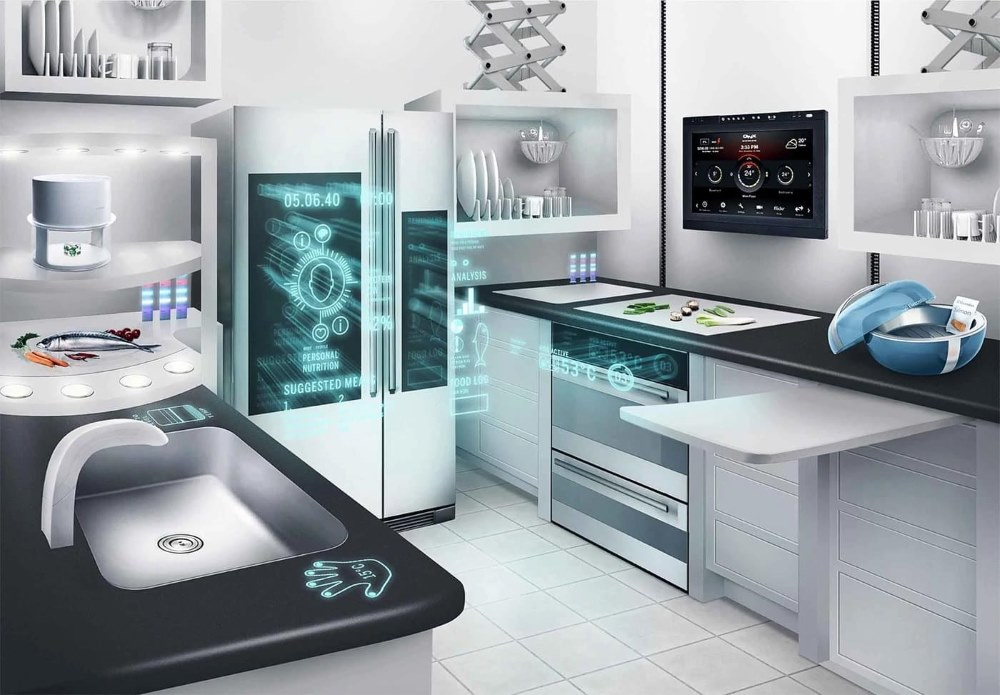
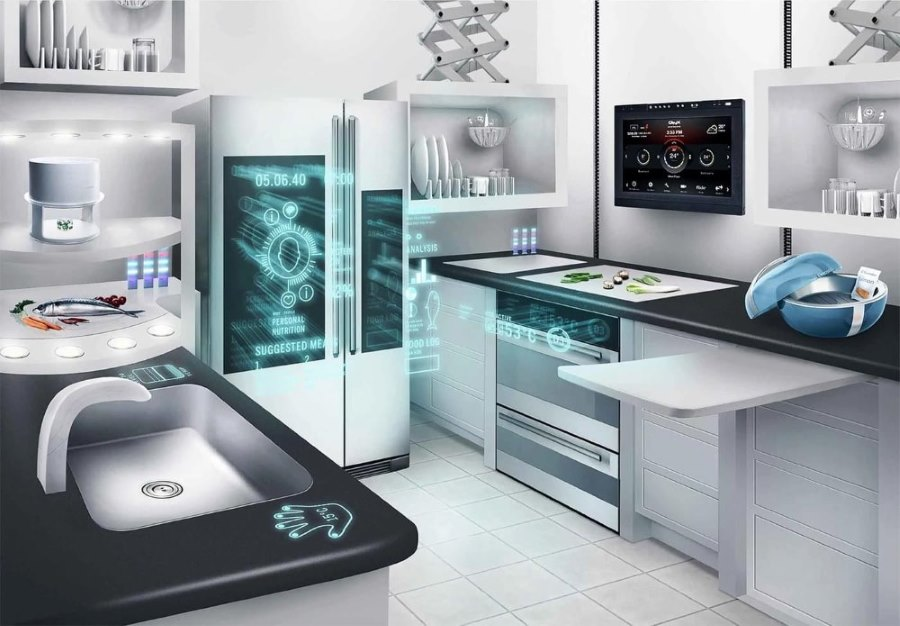
update speed

diff --git a/src/app/components/navbar.tsx b/src/app/components/navbar.tsx
@@ -19,7 +19,7 @@ function Navbar() {
 
     return (
         <section className='w-full z-50  fixed'>
-            <div className='flex justify-between  items-center max-w-7xl  bg-[#0C0C0C]/65 backdrop-blur-md mx-auto h-16 px-10'>
+            <div className='flex justify-between items-center max-w-7xl  bg-[#0C0C0C]/65 backdrop-blur-md mx-auto h-16 px-10'>
                 <div>
                     <Link href='/'>
                         <Image src={logoComp} width={50} alt='alpha logo' />
@@ -36,7 +36,7 @@ function Navbar() {
                 </div>
                 <div className='flex gap-6 items-center'>
                     <Link href={'/services#produk2'} className='hidden lg:flex'>
-                        <button className='bg-transparent border border-blue-600 px-3 py-2 text-[12px] text-white lg:text-sm  rounded-full font-bold flex items-center gap-1 hover:shadow-[0_1px_10px_blue] hover:opacity-80 transition-all duration-200'> <svg xmlns="http://www.w3.org/2000/svg" viewBox="0 0 24 24" width="18px" fill="currentColor"><path d="M6.00488 9H19.9433L20.4433 7H8.00488V5H21.7241C22.2764 5 22.7241 5.44772 22.7241 6C22.7241 6.08176 22.7141 6.16322 22.6942 6.24254L20.1942 16.2425C20.083 16.6877 19.683 17 19.2241 17H5.00488C4.4526 17 4.00488 16.5523 4.00488 16V4H2.00488V2H5.00488C5.55717 2 6.00488 2.44772 6.00488 3V9ZM6.00488 23C4.90031 23 4.00488 22.1046 4.00488 21C4.00488 19.8954 4.90031 19 6.00488 19C7.10945 19 8.00488 19.8954 8.00488 21C8.00488 22.1046 7.10945 23 6.00488 23ZM18.0049 23C16.9003 23 16.0049 22.1046 16.0049 21C16.0049 19.8954 16.9003 19 18.0049 19C19.1095 19 20.0049 19.8954 20.0049 21C20.0049 22.1046 19.1095 23 18.0049 23Z"></path></svg>SHOP</button>
+                        <button type='button' className='bg-transparent border border-blue-600 px-3 py-2 text-[12px] text-white lg:text-sm  rounded-full font-bold flex items-center gap-1 hover:shadow-[0_1px_10px_blue] hover:opacity-80 transition-all duration-200'> <svg xmlns="http://www.w3.org/2000/svg" viewBox="0 0 24 24" width="18px" fill="currentColor"><path d="M6.00488 9H19.9433L20.4433 7H8.00488V5H21.7241C22.2764 5 22.7241 5.44772 22.7241 6C22.7241 6.08176 22.7141 6.16322 22.6942 6.24254L20.1942 16.2425C20.083 16.6877 19.683 17 19.2241 17H5.00488C4.4526 17 4.00488 16.5523 4.00488 16V4H2.00488V2H5.00488C5.55717 2 6.00488 2.44772 6.00488 3V9ZM6.00488 23C4.90031 23 4.00488 22.1046 4.00488 21C4.00488 19.8954 4.90031 19 6.00488 19C7.10945 19 8.00488 19.8954 8.00488 21C8.00488 22.1046 7.10945 23 6.00488 23ZM18.0049 23C16.9003 23 16.0049 22.1046 16.0049 21C16.0049 19.8954 16.9003 19 18.0049 19C19.1095 19 20.0049 19.8954 20.0049 21C20.0049 22.1046 19.1095 23 18.0049 23Z"></path></svg>SHOP</button>
                     </Link>
                     <p onClick={() => setMenu(!false)} className='lg:hidden cursor-pointer text-white'>
                         <svg xmlns="http://www.w3.org/2000/svg" width='27px' viewBox="0 0 24 24" fill="currentColor"><path d="M3 4H21V6H3V4ZM3 11H21V13H3V11ZM3 18H21V20H3V18Z"></path></svg>
@@ -49,10 +49,9 @@ function Navbar() {
             <div className={clsx('fixed h-full w-screen lg:hidden bg-black/50 backdrop-blur-sm top-0 bottom-0 -translate-x-full', menu && "translate-x-0 transition-all duration-300"
             )}>
                 <section className='text-white bg-[#0C0C0C] flex flex-col absolute right-0 top-0 h-screen p-8 gap-8 z-50 w-48'>
-                    <button
-                        type='button'
+                    <p
                         onClick={() => setMenu(false)}
-                        className='mt-0 mb-8 cursor-pointer'><svg xmlns="http://www.w3.org/2000/svg" viewBox="0 0 24 24" width={40} fill="currentColor"><path d="M11.9997 10.5865L16.9495 5.63672L18.3637 7.05093L13.4139 12.0007L18.3637 16.9504L16.9495 18.3646L11.9997 13.4149L7.04996 18.3646L5.63574 16.9504L10.5855 12.0007L5.63574 7.05093L7.04996 5.63672L11.9997 10.5865Z"></path></svg></button>
+                        className='mt-0 mb-8 cursor-pointer'><svg xmlns="http://www.w3.org/2000/svg" viewBox="0 0 24 24" width={40} fill="currentColor"><path d="M11.9997 10.5865L16.9495 5.63672L18.3637 7.05093L13.4139 12.0007L18.3637 16.9504L16.9495 18.3646L11.9997 13.4149L7.04996 18.3646L5.63574 16.9504L10.5855 12.0007L5.63574 7.05093L7.04996 5.63672L11.9997 10.5865Z"></path></svg></p>
 
                     {itemNav.map((item, idx) => (
                         <Link onClick={() => setMenu(false)} className='cursor-pointer ' key={idx} href={item.href}>{item.text}</Link>

diff --git a/src/app/about/_componentsAbout/intro.tsx b/src/app/about/_componentsAbout/intro.tsx
@@ -1,6 +1,6 @@
 import Image from 'next/image'
 import React from 'react'
-import tecnologi from '@/app/components/images/room.jpeg'
+import tecnologi from '@/app/components/images/room.jpg'
 
 function Intro() {
     return (
